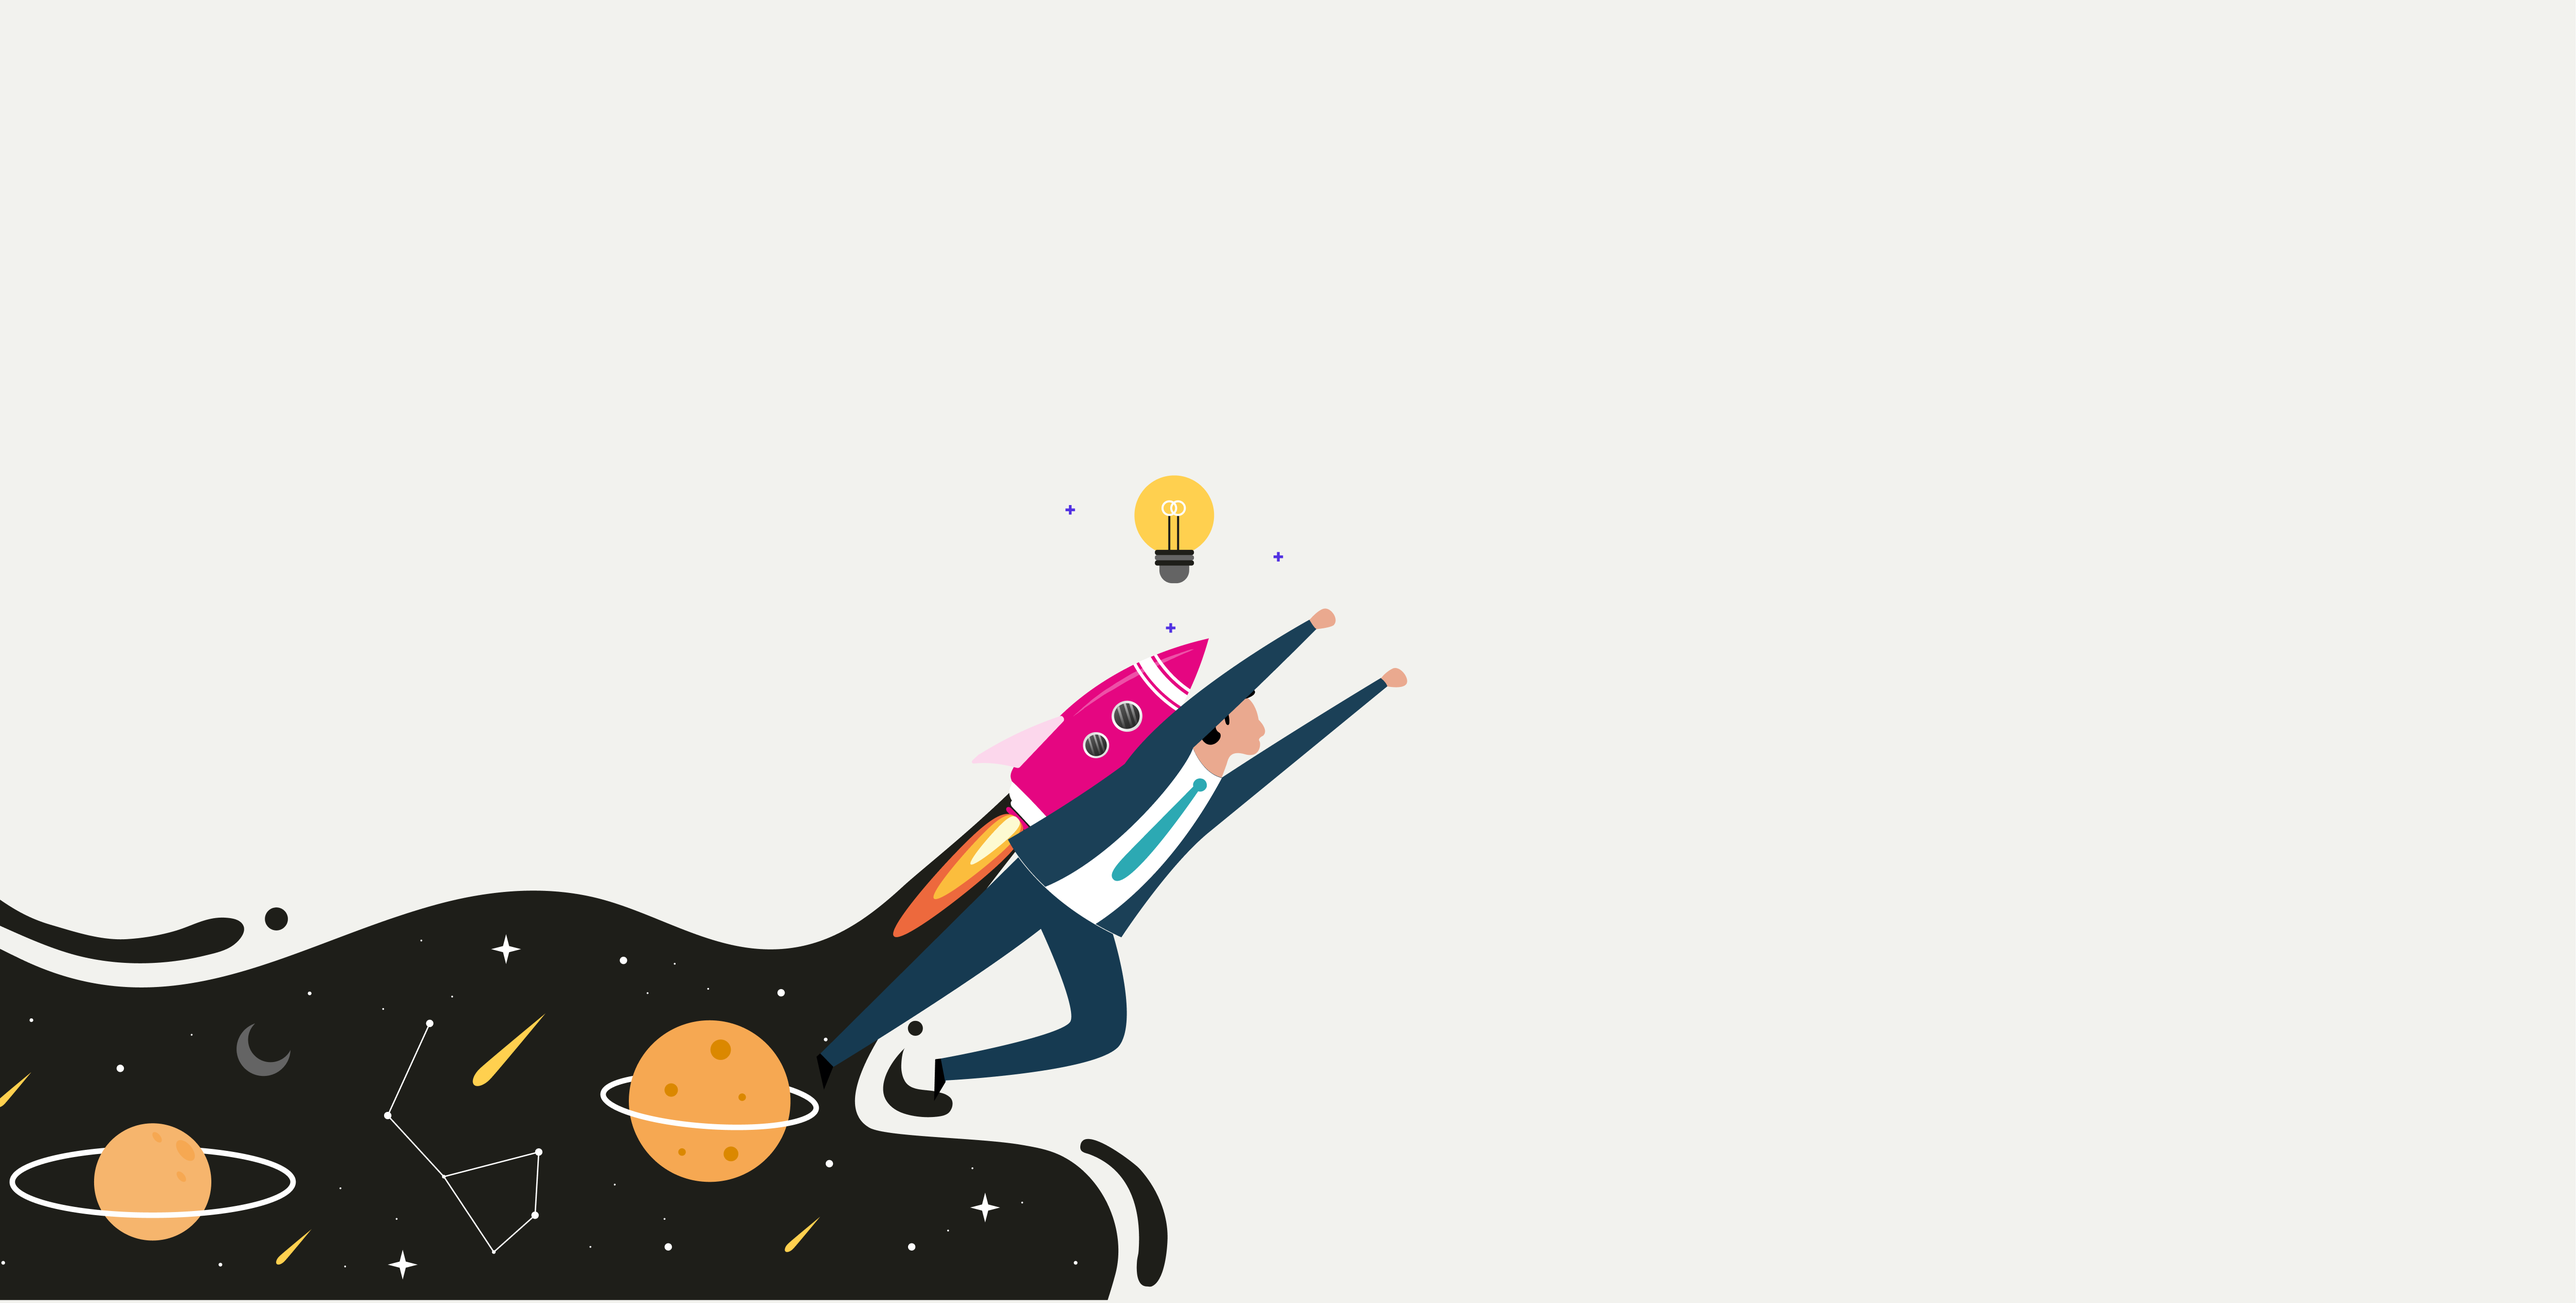
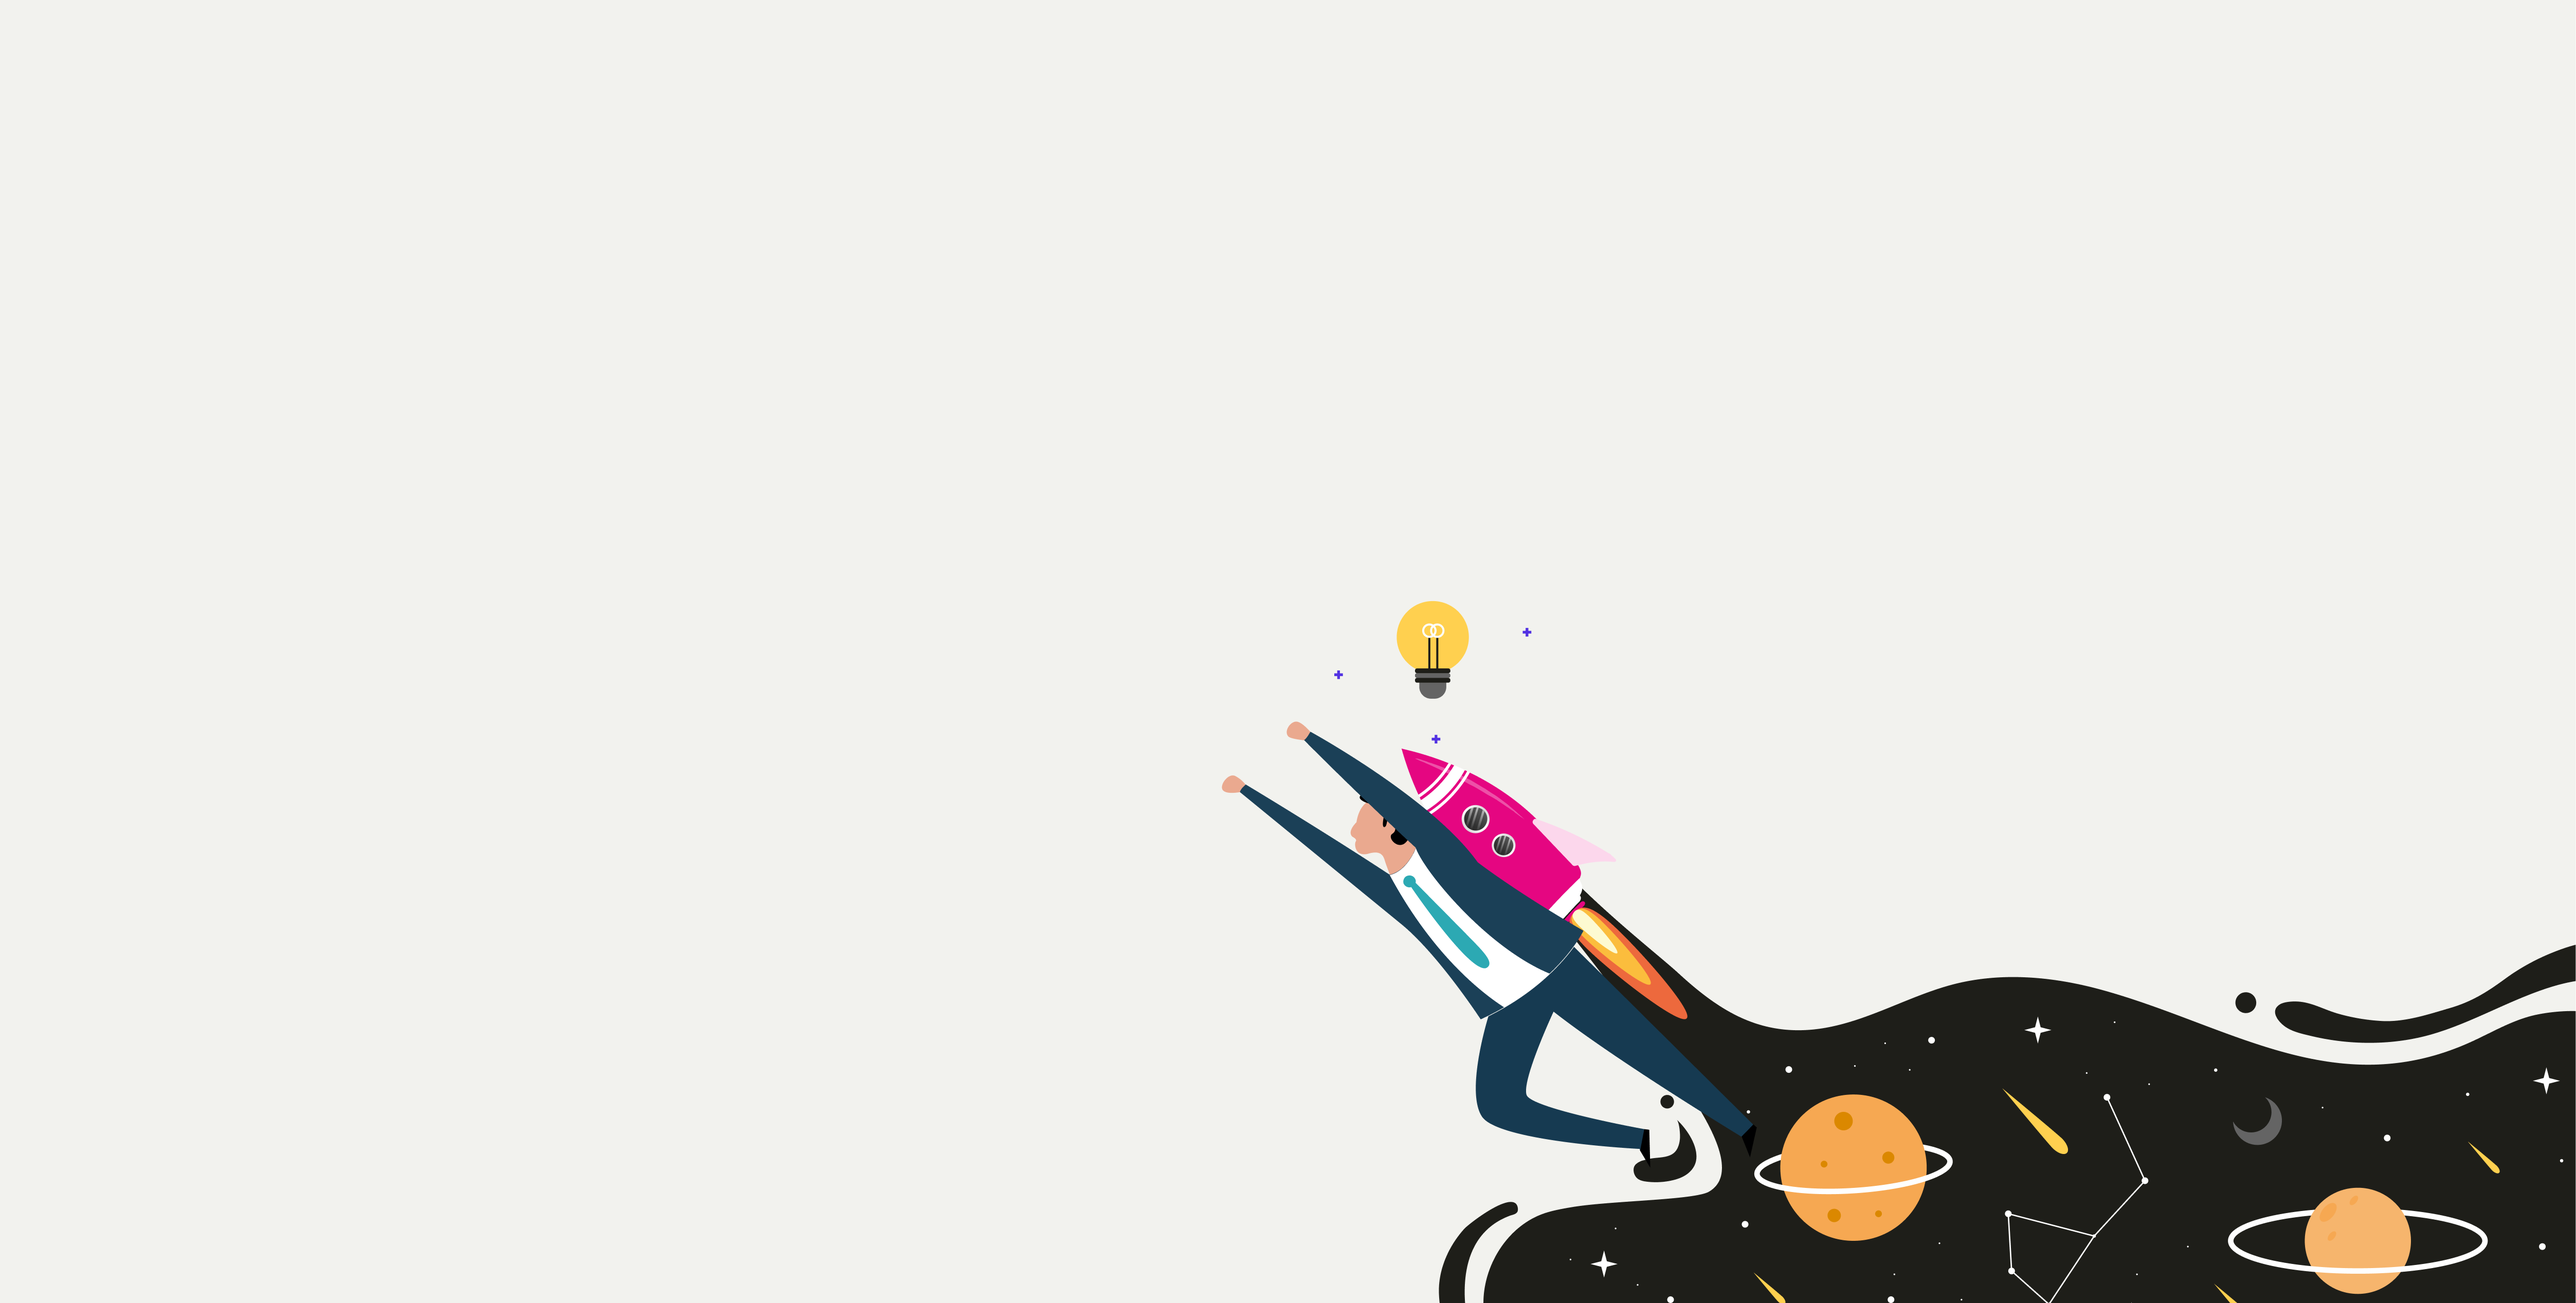
triangle is a bit hard to do putting this up for now

Changed region(s): [[0.0, 0.4673, 1.0, 1.0], [0.4359, 0.3427, 0.4982, 0.4673]]

diff --git a/index.html b/index.html
@@ -192,7 +192,7 @@
 
         <section id="excel-in-life" class="scrollto section-size">
             <div class="row clearfix web">
-                <div class="col-38">
+                <div class="col-2">
                     <!--Icon Block-->
                     <div class="col-2 icon-block icon-top wow fadeInUp" data-wow-delay="0.1s">
                         <!--Icon-->
@@ -201,12 +201,14 @@
                         </div>
                         <!--Icon Block Description-->
                         <div class="icon-block-description">
-                            <h4>Technical Skills</h4>
+                            <h4>Personal Skills</h4>
                             <p>
-                                Resume Building <br/>
-                                Presentation Skills <br/>
-                                Interview Coaching <br/>
-                                Technology Proficiency <br/>
+                                In-depth understanding of ourselves, developing your character while also looking within to maximize your strengths and embracing weakness. 
+                            </p>
+                            <p>
+                                <i>Character Development</i><br/>
+                                <i>Emotional Intelligence</i><br/>
+                                <i>Confidence and Motivation</i> <br/>
                             </p>
                         </div>
                     </div>
@@ -214,30 +216,52 @@
 
                     <!--Icon Block-->
                     <div class="col-2 icon-block icon-top wow fadeInUp" data-wow-delay="0.3s">
-                            <!--Icon-->
-                            <div class="icon">
-                                <img src="images/icons/soft-skill.png" alt="Icon">
-                            </div>
-                            <!--Icon Block Description-->
-                            <div class="icon-block-description">
-                                <h4>Soft Skills</h4>
-                                <p>
-                                    Creativity Development<br/>
-                                    Problem Solving Skills<br/>
-                                    Critical Thinking Training<br/>
-                                    Time Management<br/>
-                                </p>
-                            </div>
+                        <!--Icon-->
+                        <div class="icon">
+                            <img src="images/icons/soft-skill.png" alt="Icon">
                         </div>
+                        <!--Icon Block Description-->
+                        <div class="icon-block-description">
+                            <h4>Soft Skills</h4>
+                            <p>
+                                For you to navigate your environment, cooperate with others, perform well and achieve your goals.
+                            </p>
+                            <p>
+                                <i>Leadership Development</i><br/>
+                                <i>Problem Solving Skills</i><br/>
+                                <i>Stress Management</i><br/>
+                            </p>
+                        </div>
+                    </div>
                         <!--End of Icon Block-->
                 </div>
 
-                <div class="col-61">
+                <div class="col-2">
                     <!-- <div class="col-2"></div> -->
                     <div class="col-1">
                         <div class="section-heading">
                             <h2 class="section-title">Excel In Life</h2>
                             <p class="section-subtitle">Our carefully tailored development services enable you to reach your full potential and help you achieve greater performance and results</p>
+                        </div>
+                    </div>
+                </div>
+                <div class="col-1">
+                    <div class="col-4 icon-block icon-top wow fadeInUp" data-wow-delay="0.3s">
+                        <!--Icon-->
+                        <div class="icon">
+                            <img src="images/icons/technical-skill.png" alt="Icon">
+                        </div>
+                        <!--Icon Block Description-->
+                        <div class="icon-block-description">
+                            <h4>Technical Skills</h4>
+                            <p>
+                                Hard skills that allow you to get ahead of your peers at workplace and school. 
+                            </p>
+                            <p>
+                                <i>Presentation Skills</i><br/>
+                                <i>Interview Coaching</i><br/>
+                                <i>Technology Proficiency</i><br/>
+                            </p>
                         </div>
                     </div>
                 </div>

diff --git a/css/namari-color.css b/css/namari-color.css
@@ -151,7 +151,7 @@ mark {
 }
 
 #excel-in-life {
-    background: url("../images/banner-images/excel-in-life.png") no-repeat left bottom;
+    background: url("../images/banner-images/excel-in-life.png") no-repeat right bottom;
     background-size: cover;
     background-color: #F2F2EE;
 }
@@ -279,7 +279,7 @@ body {
     font-family: 'Miriam Libre', Helvetica, sans-serif;
     font-size: 34px; 
     font-weight:700;
-    color:#F18B15;
+    color:#F6B56D;
 }
 
 .section-title mark{

diff --git a/css/style.css b/css/style.css
@@ -328,7 +328,7 @@ section {
     background-color: white;
     border: 2px solid black;
     padding: 2em 2em 2em 2em !important;
-    margin-left: 15vw;
+    /* margin-left: 15vw; */
 }
 
 #excel-in-life .web{
@@ -895,7 +895,7 @@ h6 {
 }
 
 #excel-in-life .icon img{
-    float: unset;
+    float: right;
     margin-bottom: -18px;
 }
 
